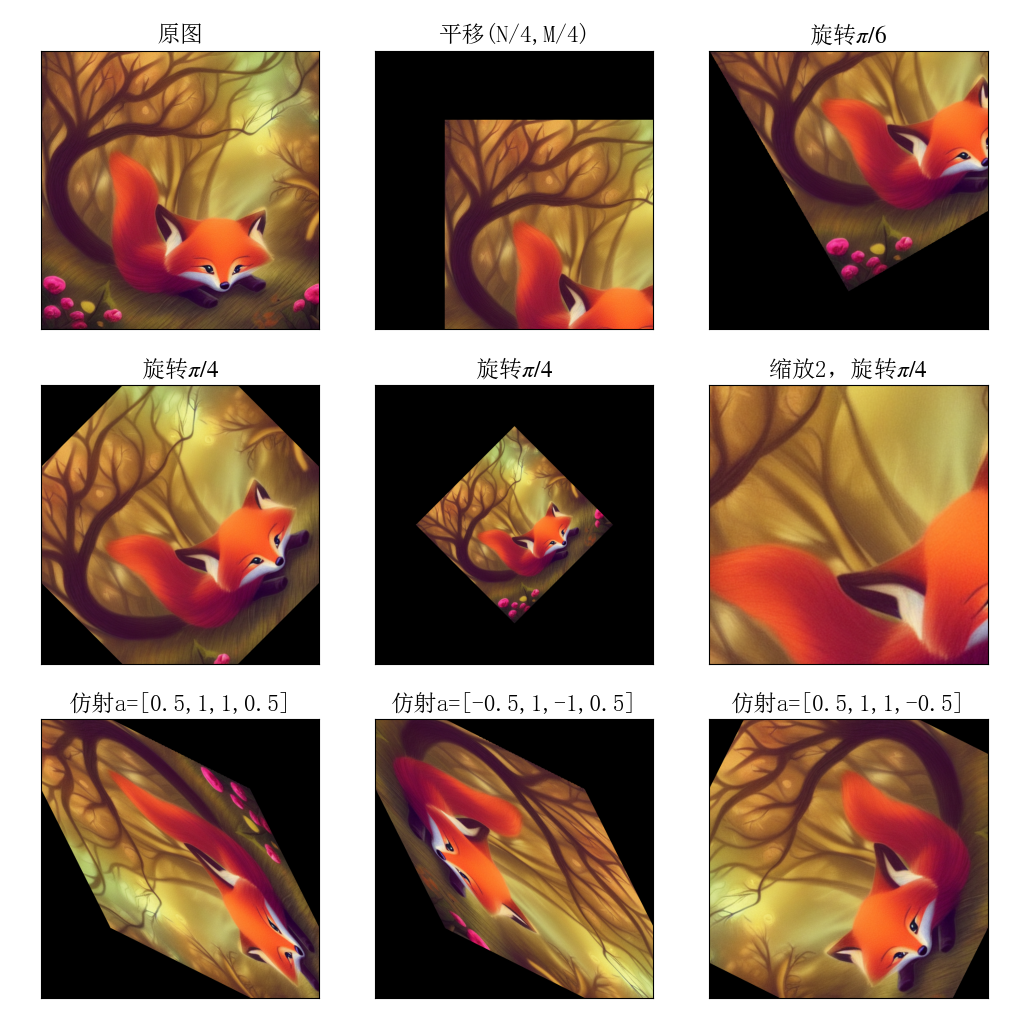
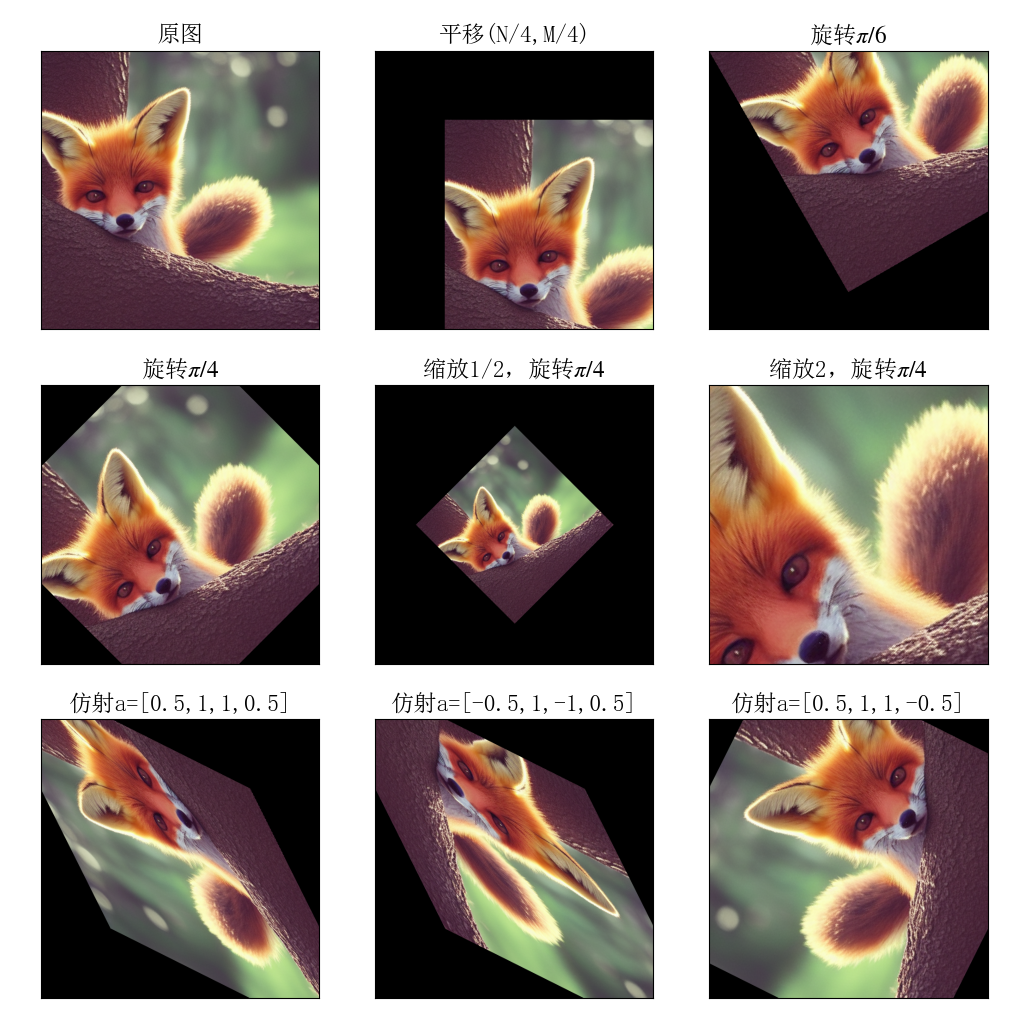
update cvpr2

diff --git a/code/hw2/resizing.py b/code/hw2/resizing.py
@@ -43,16 +43,27 @@ class Transform:
     def affine(self, a11, a12, a21, a22, t1, t2):  # 仿射变换
         return np.array([[a11, a12, t1], [a21, a22, t2], [0, 0, 1]]).astype('float64')
 
-    def transform(self, T, tomid=False):
+    def transform(self, T, tomid=False, inverse=True):
         if tomid:
             mid = np.array([self.n / 2, self.m / 2, 1]).reshape([-1, 1])
             T[:, 2] += (mid - T @ mid).flatten()
         invT = np.linalg.inv(T)
         output = np.zeros_like(img)
-        for i in tqdm(range(self.n)):
-            for j in range(self.m):
-                x, y = (invT @ np.array([i, j, 1]).reshape([-1, 1]))[0:2, 0]
-                output[i, j, :] = bilinear_interpolate(self.img, x, y)
+        if inverse:
+            for i in tqdm(range(self.n)):
+                for j in range(self.m):
+                    x, y = (invT @ np.array([i, j, 1]).reshape([-1, 1]))[0:2, 0]
+                    # output[i, j, :] = bilinear_interpolate(self.img, x, y)
+                    output[i, j, :] = near_interpolate(self.img, x, y)
+        else:
+            for i in tqdm(range(self.n)):
+                for j in range(self.m):
+                    x, y = (T @ np.array([i, j, 1]).reshape([-1, 1]))[0:2, 0]
+                    x, y = int(x), int(y)
+                    if x < 0 or x >= n or y < 0 or y >= m:
+                        continue
+                    # output[i, j, :] = bilinear_interpolate(self.img, x, y)
+                    output[x, y, :] = near_interpolate(self.img, i, j)
         return output
 
 
@@ -72,6 +83,14 @@ def bilinear_interpolate(img, x, y):  # 双线性插值
     for i in range(4):
         ret += img[x0 + pos[3 - i][0], y0 + pos[3 - i][1], :] * calc_area(x0 + pos[i][0], y0 + pos[i][1])
     return ret
+
+
+def near_interpolate(img, x, y):
+    n, m, c = img.shape
+    x, y = int(x), int(y)
+    if x < 0 or x >= n or y < 0 or y >= m:
+        return np.zeros(c)
+    return img[x, y]
 
 
 def down_resolution(img, k):  # 使用高斯核大小为2k+1x2k+1，降低1/2的分辨率
@@ -287,15 +306,17 @@ n, m, c = img.shape
 #           (padding(img, 200, 200, mode=2), '边界复制'),
 #           (padding(img, 200, 200, mode=3), '边界镜像'))
 # 几何变换
-# t = Transform(img)
-# draw_some((img, '原图'), (t.transform(t.translation(n/4, m/4)), '平移(N/4,M/4)'),
-#           (t.transform(t.rotation(np.pi/6)), '旋转$\pi/6$'),
-#           (t.transform(t.euclidean(np.pi/4, 0, 0), tomid=True), '旋转$\pi/4$'),
-#           (t.transform(t.similitude(0.5, np.pi/4, 0, 0), tomid=True), '旋转$\pi/4$'),
-#           (t.transform(t.similitude(2, np.pi/4, 0, 0), tomid=True), '缩放2，旋转$\pi/4$'),
-#           (t.transform(t.affine(0.5, 1, 1, 0.5, 0, 0), tomid=True), '仿射a=[0.5,1,1,0.5]'),
-#           (t.transform(t.affine(-0.5, 1, -1, 0.5, 0, 0), tomid=True), '仿射a=[-0.5,1,-1,0.5]'),
-#           (t.transform(t.affine(0.5, 1, 1, -0.5, 0, 0), tomid=True), '仿射a=[0.5,1,1,-0.5]'), shape=(3, 3))
+t = Transform(img)
+# draw_some((img, '原图'), (t.transform(t.similitude(1.5, 0, 0, 0), tomid=True, inverse=False), '放大1.5'),
+#           (t.transform(t.similitude(2, 0, 0, 0), tomid=True, inverse=False), '放大2'))
+draw_some((img, '原图'), (t.transform(t.translation(n/4, m/4)), '平移(N/4,M/4)'),
+          (t.transform(t.rotation(np.pi/6)), '旋转$\pi/6$'),
+          (t.transform(t.euclidean(np.pi/4, 0, 0), tomid=True), '旋转$\pi/4$'),
+          (t.transform(t.similitude(0.5, np.pi/4, 0, 0), tomid=True), '缩放1/2，旋转$\pi/4$'),
+          (t.transform(t.similitude(2, np.pi/4, 0, 0), tomid=True), '缩放2，旋转$\pi/4$'),
+          (t.transform(t.affine(0.5, 1, 1, 0.5, 0, 0), tomid=True), '仿射a=[0.5,1,1,0.5]'),
+          (t.transform(t.affine(-0.5, 1, -1, 0.5, 0, 0), tomid=True), '仿射a=[-0.5,1,-1,0.5]'),
+          (t.transform(t.affine(0.5, 1, 1, -0.5, 0, 0), tomid=True), '仿射a=[0.5,1,1,-0.5]'), shape=(3, 3))
 # # Gauss金字塔
 # G1 = down_resolution(img, 2)
 # G2 = down_resolution(G1, 2)
@@ -315,7 +336,9 @@ n, m, c = img.shape
 # gauss_img = conv(img, gauss_filter(2), padding_mode=3)
 # draw_some((gauss_img, '原图'), (sampling(gauss_img, 2), '1/2'), (sampling(gauss_img, 4), '1/4'), (sampling(gauss_img, 8), '1/8'))
 # # Gauss一阶微分
+# filter = gauss_filter(6, derivative=0)
 # draw_some((gauss_filter(6, derivative=0), 'x轴偏导', 'line'), (gauss_filter(6, derivative=1), 'y轴偏导', 'line'))
+# draw_some((img_gray, '原图'), (conv(img_gray, filter, padding_mode=3), 'x偏导line'))
 # sigmas = [0.5, 1, 2, 5]
 # magnitude, orientation, title = [], [], []
 # for sigma in sigmas:
@@ -326,7 +349,7 @@ n, m, c = img.shape
 # draw_some(*[(magnitude[i], '幅度图'+title[i], 'line') for i in range(len(sigmas))],
 #           *[(orientation[i], '方向图'+title[i], 'clip', 'CMRmap') for i in range(len(sigmas))], shape=(2, 4))
 # Canny边缘检测算法
-canny(img_gray, 0.5, high_per=92, low_per=50)
+# canny(img_gray, 0.5, high_per=92, low_per=50)
 # Harris角点检测
 # corner = harris(img_gray, 0.5, 0.05, show_img=img)
 # sigma = 0.5

diff --git a/code/util/draw_figure.py b/code/util/draw_figure.py
@@ -61,5 +61,5 @@ def draw_some(*arg, shape=None, origin=False):
         for i in range(n):
             draw(axes[i], *(list(arg[i]) + (3 - len(arg[i])) * [None]))
         fig.tight_layout()
-    fig.savefig('tmp.png', dpi=600)
+    fig.savefig('tmp.png', dpi=100)
     fig.show()

diff --git a/code/hw2/CVPR2_note.md b/code/hw2/CVPR2_note.md
@@ -34,7 +34,9 @@
 $$
 \boldsymbol{t} = \boldsymbol{x}_{mid} - T\boldsymbol{x}_{mid},\quad T_{translation}=\left[\begin{matrix}1&0&t_1\\ 0&1&t_2\\0&0&1\end{matrix}\right]
 $$
-为了保证输出效果，处平移操作和旋转操作外，其他操作都进行平移.
+为了保证输出效果，处平移操作和旋转操作外，其他操作都进行平移. 正向变换的结果有非常多的空洞，而反向变换加双线性插值效果好得多.
+
+![tmp](./CVPR2_note.figure/向前变换.png)
 
 ![image-20221005212943808](./CVPR2_note.figure/几何变换实验.png)
 
